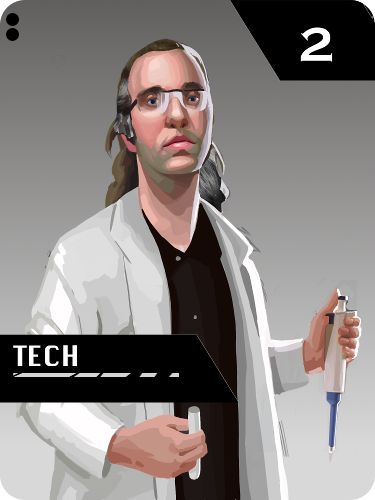
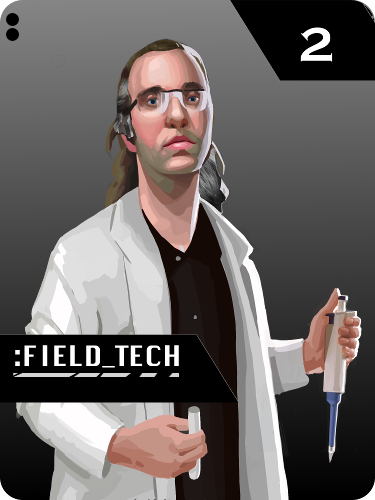
changes imgs

diff --git a/cli-version/bin/mycliapp.js b/cli-version/bin/mycliapp.js
@@ -50,15 +50,13 @@ Game.prototype.over= function (winner){
 
 
 Game.prototype.loop = function() {
-  var action = "";
-  var playerIndex= 0;
-  var currentPlayer = currentGame.players[playerIndex];
+  var currentPlayer = currentGame.players[currentRound.currentPlayer];
   
   if(!currentPlayer.turnStarted){
     currentPlayer.drawCard();
   }
   currentPlayer.turnStarted = true;
-  read.question("Player " + (playerIndex + 1) + ": What action would you like to take?([H]AND, [P]LAY) ", function (answer){
+  read.question("Player " + (currentPlayer.num + 1) + ": What action would you like to take?([H]AND, [P]LAY, CARD [E]XPLANATION) ", function (answer){
   read.pause();
     switch(answer){
       case "H":
@@ -67,8 +65,12 @@ Game.prototype.loop = function() {
         break;
       case "P":
         currentPlayer.turnStarted = false;
-        playerIndex++;
+        currentRound.currentPlayer= (currentRound.currentPlayer + 1) % numPlayers;
         currentPlayer.playCard();
+        break;
+      case "E":
+        cardExplanation();
+        currentGame.loop();
         break;
       default:
         console.log("NOT A VALID CHOICE");
@@ -76,6 +78,8 @@ Game.prototype.loop = function() {
       }
     })
   }
+
+  //Player Class
   function Player(num){
     this.num = num;
     this.hand = [];
@@ -85,12 +89,20 @@ Game.prototype.loop = function() {
   }
 
   Player.prototype.drawCard = function() {
-    this.hand.push(shuffledDeck.pop())
+    // if(this.hand.length && shuffledDeck.length && ((shuffledDeck[-1].name ===  ":OPERATIVE") && (this.hand[0].name === ":CMNDR")) || ((shuffledDeck[-1].name ===  ":OPERATIVE") && (this.hand[0].name === ":CHAIRMAN"))) {
+    //   this.hand.shift(shuffledDeck[-1]);
+    // }
+    
+    //Should the deck store nubmers, and then cards are first created when drawn?  In that cast, Operative's code could check immediately to see if the other card in your hand is CMNDR or CHAIRMAN.  Also, cards need value numbers.
+    newCardValue= shuffledDeck.pop();
+    //finds proper card hash from the CARDDATA hash
+    //Checks to see if operative, forces player to play 
+    this.hand.push()
   };
 
   Player.prototype.cardDisplay = function(){
     for (var card in this.hand){
-      console.log(this.hand[card].title)
+      console.log(this.hand[card].name)
     }
   }
 
@@ -104,10 +116,19 @@ Game.prototype.loop = function() {
   };
 
   Player.prototype.playCard= function (){
-    Round.playersPresent;
-  }
+    var that = this
+    //Check all cards for OPERATIVE here? Force player to play Operative and notify them?
+    read.question("Which card would you like to play: [0]"+ this.hand[0].name + " or [1]"+ this.hand[1].name +"? ", function (answer){
+        read.pause();
+        // console.log('\033[2J');
+        console.log("Player"+ (that.num + 1) + " played " + that.hand[parseInt(answer)].name + ".");
+        that.hand.splice(parseInt(answer),1);
+        currentGame.loop();
+      })
+    }
+    
   
-   function Round(players){
+  function Round(players){
     this.deck= shuffledDeck.slice(0, 16)
     if(players.length == 2){
       this.pubDiscard = [];
@@ -117,6 +138,7 @@ Game.prototype.loop = function() {
     for (var i in currentGame.players){
       currentGame.players[i].drawCard();
     }
+    this.currentPlayer= 0;
   }
 
   Round.prototype.over = function(player) {
@@ -132,23 +154,13 @@ Game.prototype.loop = function() {
 
 
 //Deck Class
-var DECK = [new Card("GUARD"), new Card("GUARD"), new Card("GUARD"), new Card("GUARD"), new Card("GUARD"), new Card("TECH"), new Card("TECH"), new Card("FIXER"), new Card("FIXER"), new Card("ASSISTANT"), new Card("ASSISTANT"), new Card("CHAIRMAN"), new Card("CHAIRMAN"), new Card("DIRECTOR"), new Card("OPERATIVE"), new Card("ECLIPTIC")];
 
-var shuffledDeck = function (){
-  var dLength = DECK.length - 1;
-  var toSwap;
-  var temp;
-  for(i= dLength; i > 0; i--){ 
-    toSwap = Math.floor(Math.random() * i);
-    temp = DECK[i];
-    DECK[i] = DECK[toSwap];
-    DECK[toSwap] = temp;
-  }
-  return DECK;
-}();
 
-function Card(title){
-  this.title = title;
+
+function Card(callback, name, value){
+  this.name = name;
+  this.effect = callback;
+  this.value = value;
 }
 
 var GUARD = function (target, guess){
@@ -193,12 +205,40 @@ var DIRECTOR= function (caller, target){
 
 var OPERATIVE= function()
   {
-    console.log("goes nowhere, does nothing")
+    return "goes nowhere, does nothing";
   };
 
 var ECLIPTIC= function (caller){
   caller.isOut();
 }
+
+function cardExplanation(){
+  console.log(":DRONE- Choose an opponent and guess a non-:DRONE card.  If that opponent has that card, they are out of the round. Has no effect if they are protected by a :REPLICANT.");
+  console.log(":FIELD_TECH- Choose an opponent.  You may look at their hand, if they are not protected by a :REPLICANT.")
+  console.log(":STRIKER- Compare hands with another player.  Whoever has the lower value card is out of the round.  Cannot be played against a player protected by a :REPLICANT.")
+  console.log(":REPLICANT- Until the start of your next turn, you ignore the effects of any card played against you.")
+  console.log(":CHAIRMAN- Choose a player, including yourself.  That player discards their hand, and draws a new one.  If all other players are protected by a :REPLICANT, you must play this card on yourself and abide by its effects.")
+  console.log(":CMNDR- Exchange hands with another player.  May not be played on a player protected by a :REPLICANT.")
+  console.log(":OPERATIVE- Must be discarded if you have a :CMNDR or :CHAIRMAN in hand.  May be discarded at any other time to no effect otherwise.")
+  console.log(":ECLIPTECH- If you discard this card, you are out of the round.")
+}
+//deck class
+var DECK = [1, 1, 1, 1, 1, 2, 2, 3, 3, 4, 4, 5, 5, 6, 7, 8];
+var CARDDATA = {":DRONE":{effect: GUARD, value: 1}, ":FIELD_TECH":{effect: TECH, value: 2}, ":STRIKER":{effect: FIXER, value: 3}, ":REPLICANT":{effect: ASSISTANT, value: 4}, ":CHAIRMAN":{effect: CHAIRMAN, value: 5}, ":CMNDR":{effect: DIRECTOR, value: 6}, ":OPERATIVE"{effect: OPERATIVE, value: 7}, ":ECLIPTECH":{effect: ECLIPTIC, value: 8}};
+
+
+var shuffledDeck = function (){
+  var dLength = DECK.length - 1;
+  var toSwap;
+  var temp;
+  for(i= dLength; i > 0; i--){ 
+    toSwap = Math.floor(Math.random() * i);
+    temp = DECK[i];
+    DECK[i] = DECK[toSwap];
+    DECK[toSwap] = temp;
+  }
+  return DECK;
+}();
 
 currentGame= new Game(numPlayers);
 currentRound= new Round(currentGame.players)

diff --git a/cli-version/bin/hexes.js b/cli-version/bin/hexes.js
@@ -1,0 +1,53 @@
+function CreateLightHex(color){
+  var canvas = document.createElement('canvas');
+  canvas.width = 173;
+  canvas.height = 200;
+  
+  var ctx = canvas.getContext('2d');
+  var grad = ctx.createLinearGradient(0,0,173,0);
+  grad.addColorStop(0, color);
+  grad.addColorStop(0.07, 'rgba(0,0,0,0)');
+  grad.addColorStop(0.93, 'rgba(0,0,0,0)');
+  grad.addColorStop(1, color);
+  MakeHexTile(ctx, grad);
+  
+  return canvas;
+}
+
+function MakeHexTile(ctx, fillStyle){
+  ctx.save();
+  
+  var rotateBy = 60 * Math.PI / 180;
+  
+  ctx.fillStyle = fillStyle;
+  ctx.fillRect(0,50,173,100);
+  ctx.translate(129,-25);
+  ctx.rotate(rotateBy);
+  ctx.fillRect(0,50,173,100);
+  ctx.translate(129,-25);
+  ctx.rotate(rotateBy);
+  ctx.fillRect(0,50,173,100);
+  
+  // Reset the context rotation
+  ctx.restore();
+};
+
+function MakeHexBKG(){
+  var tile = CreateLightHex('#00ffff');
+  var canv = document.createElement('canvas');
+  canv.width = tile.width;
+  canv.height = 300;
+  
+  var ctx = canv.getContext('2d');
+  ctx.drawImage(tile,0,0);
+  ctx.drawImage(tile,0,300);
+  ctx.drawImage(tile,-86.5,-150);
+  ctx.drawImage(tile,-86.5,150);
+  ctx.drawImage(tile,86.5,-150);
+  ctx.drawImage(tile,86.5,150);
+  
+  return canv;
+}
+
+var url = MakeHexBKG().toDataURL('image/png');
+document.body.style.backgroundImage = 'url('+url+')';

diff --git a/cli-version/bin/hexes.css b/cli-version/bin/hexes.css
@@ -1,0 +1,36 @@
+.hexagon {
+  position: relative;
+  width: 100px; 
+  height: 57.74px;
+  background-color: #494a44;
+  margin: 28.87px 0;
+  border-left: solid 5px #333333;
+  border-right: solid 5px #333333;
+}
+
+.hexagon:before,
+.hexagon:after {
+  content: "";
+  position: absolute;
+  z-index: 1;
+  width: 70.71px;
+  height: 70.71px;
+  -webkit-transform: scaleY(0.5774) rotate(-45deg);
+  -ms-transform: scaleY(0.5774) rotate(-45deg);
+  transform: scaleY(0.5774) rotate(-45deg);
+  background-color: inherit;
+  left: 9.6447px;
+}
+
+.hexagon:before {
+  top: -35.3553px;
+  border-top: solid 7.0711px #333333;
+  border-right: solid 7.0711px #333333;
+}
+
+.hexagon:after {
+  bottom: -35.3553px;
+  border-bottom: solid 7.0711px #333333;
+  border-left: solid 7.0711px #333333;
+}
+

diff --git a/cli-version/bin/index.html b/cli-version/bin/index.html
@@ -1,0 +1,7 @@
+<head>
+<link rel="stylesheet" type="text/css" href="hexes.css">
+</head>
+<body>
+<div class="hexagon"></div>
+
+</body>
